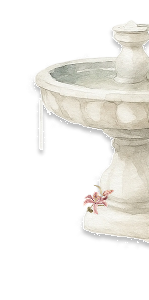
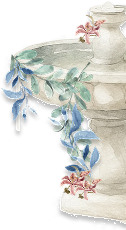
update new background and adding new flower - Gift Page

diff --git a/src/app/v2/page.tsx b/src/app/v2/page.tsx
@@ -176,12 +176,12 @@ export default function Home() {
 					{ opacity: 0, },
 					{ opacity: 1, ease: "sine.out", duration: 2 }
 				)
-				.fromTo('#gift .card', 
+				.fromTo('#gift .card-1', 
 					{ translateY: screen.height, },
 					{ translateY: 0, ease: "power1.inOut", duration: 2 },
 					'-=0.5'
 				)
-				.fromTo('#gift .button', 
+				.fromTo('#gift .button-1', 
 					{ scale: 0, },
 					{ scale: 1, ease: "power1.inOut", duration: 1 },
 					'-=0.5' 
@@ -348,7 +348,7 @@ export default function Home() {
 				<ButtonGreetings />
 			</section>
 
-			<section id="gift" className="absolute top-0 min-h-screen w-full bg-[url(/backgrounds/gift.jpg)] bg-cover bg-center flex flex-col items-center justify-center text-center overflow-hidden opacity-0 px-6">
+			<section id="gift" className="absolute top-0 min-h-screen w-full bg-[url(/backgrounds/gift.png)] bg-cover bg-center flex flex-col items-center justify-center text-center overflow-hidden opacity-0 px-6">
 				{/* <Card className="card w-[340px] h-[489px] rounded-[34px] bg-[url(/images/card-background.jpg)] bg-cover bg-center shadow-lg">
 					<CardContent className="h-full flex flex-col p-8 justify-center">
 						<h1 className="font-pinyonScript text-5xl mb-10">Kirim Hadiah</h1>
@@ -361,10 +361,10 @@ export default function Home() {
 				</Card> */}
 				<GiftCard />
 				<Image
-					className="absolute -bottom-24 xs:-bottom-10 right-0"
+					className="absolute -bottom-4 xs:bottom-6 right-0"
 					src="/images/gift/flower-1.png"
-					width={149}
-					height={300}
+					width={126}
+					height={230}
 					alt="flower"
 					unoptimized
 				/>

diff --git a/src/features/index/components/greetings/gift-card.tsx b/src/features/index/components/greetings/gift-card.tsx
@@ -31,7 +31,7 @@ export default function GiftCard() {
   };
 
   return (
-    <Card className="w-[340px] h-[489px] rounded-[34px] bg-cover bg-center shadow-lg overflow-hidden">
+    <Card className="card-1 w-[340px] h-[489px] rounded-[34px] bg-cover bg-center shadow-lg overflow-visible relative">
       <CardContent className="h-full flex flex-col p-8 justify-center">
         <AnimatePresence mode="wait">
           {step === 0 && (
@@ -51,7 +51,7 @@ export default function GiftCard() {
               <div className="w-full flex justify-center">
                 <Button
                   onClick={() => setStep(1)}
-                  className="font-merriweather rounded-full bg-[#819BB1] text-white py-5 px-16"
+                  className="button-1 font-merriweather rounded-full bg-[#819BB1] text-white py-5 px-16"
                   variant="outline"
                 >
                   Kirim Hadiah
@@ -135,6 +135,14 @@ export default function GiftCard() {
           )}
         </AnimatePresence>
       </CardContent>
+      <Image
+        className="absolute -left-8 -top-6"
+        src="/images/gift/flower-2.png"
+        width={143}
+        height={160}
+        alt="flower"
+        unoptimized
+      />
     </Card>
   );
 }
